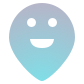
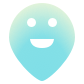
gradient stuff

Changed region(s): [[0.0952, 0.0238, 0.9048, 0.6429]]

diff --git a/screens/StatsScreen.js b/screens/StatsScreen.js
@@ -1,18 +1,17 @@
 import React from 'react';
 import { FlatList, View, StyleSheet, Text, AsyncStorage } from 'react-native';
 import { ExpoConfigView } from '@expo/samples';
+import { LinearGradient } from 'expo';
 
 import { HOST } from '../constants/Dark';
 import Styles from '../constants/Styles';
-import {
+import Colors, {
   skyBright, sunBright, seaBright,
   skyLight, sunLight, seaLight,
-  skyPrimary
+  skyPrimary, sunPrimary, seaPrimary,
+  skyDark
 } from '../constants/Colors';
 import ErrorPage from '../components/ErrorPage';
-
-const sunDark = '#FFA023';
-const seaDark = '#45A6AF';
 
 export default class StatsScreen extends React.Component {
   static navigationOptions = {
@@ -52,8 +51,8 @@ export default class StatsScreen extends React.Component {
     if (this.state.error) return (<ErrorPage retryAction={this.retryLoad} />)
 
     const max = this.state.dataSource.reduce((m, e) => e.count > m ? e.count : m, 0)
-    const bgcolors = [skyLight, sunLight, seaLight]
-    const textcolors = [skyBright, sunDark, seaDark]
+    const bgcolors = [seaBright, skyBright]
+    const textcolors = [seaLight, skyLight]
 
     const renderItem = ({item, index}) => {
       return (<View style={styles.item}>
@@ -61,48 +60,53 @@ export default class StatsScreen extends React.Component {
         <View
           style={{...styles.count,
             flex: item.count,
-            backgroundColor: bgcolors[index%3]
+            backgroundColor: bgcolors[index%2]
           }}
         ><Text
           style={{
             ...styles.countText,
-            color: textcolors[index%3]
+            color: textcolors[index%2]
           }}
           >{item.count}</Text></View>
         <View style={{flex: max - item.count}}></View>
       </View>)
     }
 
-    return (<FlatList
-      style={styles.container}
+    return (
+      <LinearGradient
+        colors={Colors.gradient}
+        style={styles.container}
+      >
+      <FlatList
       data={this.state.dataSource}
       renderItem={renderItem}
       keyExtractor={(item, index) => '' + index}
       ListHeaderComponent={(<Text style={styles.header}>Usage Frequency</Text>)}
-     />)
+     />
+   </LinearGradient>)
   }
 }
 
 const styles = StyleSheet.create({
   container: {
     ...Styles.container,
-    paddingRight: 10,
-    paddingLeft: 10,
     flexWrap: 'nowrap',
   },
   header: {
     textAlign: 'center',
-    color: skyPrimary,
     marginBottom: 10,
     marginTop: 10,
     fontWeight: 'bold',
-    fontSize: 15
+    fontSize: 15,
+    color: skyDark
   },
   item: {
     flex: 1,
     flexDirection: 'row',
     justifyContent: 'flex-start',
     alignItems: 'center',
+    paddingRight: 8,
+    paddingLeft: 8,
   },
   emoji: {
     width: 20,
@@ -113,7 +117,7 @@ const styles = StyleSheet.create({
     height: 30,
     padding: 4,
     borderTopRightRadius: 15,
-    borderBottomRightRadius: 15,
+    borderBottomRightRadius: 15
   },
   countText: {
     width: '100%',

diff --git a/screens/CheckinScreen.js b/screens/CheckinScreen.js
@@ -1,24 +1,24 @@
 import React from 'react';
 import {
-  Alert,
   Button,
   Image,
   Platform,
   ScrollView,
   StyleSheet,
   Text,
-  TextInput,
   TouchableOpacity,
   View,
   AsyncStorage,
 } from 'react-native';
-import { WebBrowser } from 'expo';
+import { LinearGradient } from 'expo';
 
 import { MonoText } from '../components/StyledText';
 import EmojiInput from 'react-native-emoji-input';
 
 import { HOST } from '../constants/Dark';
-import Colors, { seaBright, seaLight, seaPrimary, skyLight, skyPrimary, skyBright } from '../constants/Colors';
+import Colors, { seaBright, seaLight, seaPrimary,
+  skyLight, skyPrimary, skyBright,
+  sunBright, sunPrimary } from '../constants/Colors';
 import Styles from '../constants/Styles';
 import ErrorPage from '../components/ErrorPage';
 
@@ -70,7 +70,10 @@ export default class HomeScreen extends React.Component {
         message="Oops! We are having trouble receiving your moods." />)
 
     return (
-      <View style={styles.container}>
+      <LinearGradient
+        colors={Colors.gradient}
+        style={styles.container}
+      >
         <View style={styles.top}>
           <Button
             color={Colors.tintColor}
@@ -104,7 +107,7 @@ export default class HomeScreen extends React.Component {
           }}
         />
         </View>
-        </View>
+        </LinearGradient>
       );
   }
 }

diff --git a/screens/HistoryScreen.js b/screens/HistoryScreen.js
@@ -1,9 +1,10 @@
 import React from 'react';
 import { FlatList, ScrollView, StyleSheet, Text, AsyncStorage, View } from 'react-native';
-import { ExpoLinksView } from '@expo/samples';
+
+import { LinearGradient } from 'expo';
 
 import { HOST } from '../constants/Dark';
-import { seaPrimary, seaBright, skyPrimary } from '../constants/Colors';
+import Colors, { seaPrimary, seaBright, skyPrimary, sunPrimary, sunBright } from '../constants/Colors';
 import Styles from '../constants/Styles';
 import ErrorPage from '../components/ErrorPage';
 
@@ -55,31 +56,31 @@ export default class HistoryScreen extends React.Component {
     }
 
     return (
+      <LinearGradient
+        colors={Colors.gradient}
+        style={Styles.container}
+      >
       <FlatList
-          style={styles.container}
           data={this.state.dataSource}
           renderItem={renderItem}
           keyExtractor={(item, index) => '' + index}
          />
-
+      </LinearGradient>
     );
   }
 }
 
 
 const styles = StyleSheet.create({
-  container: {
-    ...Styles.container,
-    padding: 8
-  },
   item: {
-    marginBottom: 16
+    marginBottom: 16,
+    paddingLeft: 8,
+    paddingRight: 8,
   },
   emojis: {
-    fontSize: 24
+    fontSize: 40
   },
   date: {
     fontSize: 12,
-    color: skyPrimary,
   }
 });

diff --git a/App.js b/App.js
@@ -4,7 +4,7 @@ import { AppLoading, Asset, Font, Icon } from 'expo';
 import AppNavigator from './navigation/AppNavigator';
 import uuid from 'react-native-uuid';
 
-import { seaPrimary } from './constants/Colors';
+import { seaPrimary, seaBright, sunPrimary, sunBright } from './constants/Colors';
 
 export default class App extends React.Component {
   state = {
@@ -23,7 +23,8 @@ export default class App extends React.Component {
     } else {
       return (
         <View style={styles.container}>
-          {Platform.OS === 'ios' && <StatusBar barStyle="default" />}
+          {Platform.OS === 'ios' &&
+            <StatusBar backgroundColor='transparent'  />}
           <AppNavigator />
         </View>
       );
@@ -67,5 +68,6 @@ export default class App extends React.Component {
 const styles = StyleSheet.create({
   container: {
     flex: 1,
+
   },
 });

diff --git a/components/ErrorPage.js b/components/ErrorPage.js
@@ -1,5 +1,6 @@
 import React from 'react';
-import {View, StyleSheet, Text, Button, Image } from 'react-native';
+import { StyleSheet, Text, Button, Image } from 'react-native';
+import { LinearGradient } from 'expo';
 
 import Styles from '../constants/Styles.js';
 import Colors from '../constants/Colors';
@@ -8,7 +9,10 @@ export default class ErrorPage extends React.Component {
 
 	render(){
 		return (
-			<View style={styles.container}>
+			<LinearGradient
+				colors={Colors.gradient}
+				style={styles.container}
+			>
 				<Image
           source={require('./img/error.png')}
         />
@@ -16,7 +20,7 @@ export default class ErrorPage extends React.Component {
 				<Button
 					color={Colors.tintColor}
 					onPress={this.props.retryAction} title="Try Again" />
-			</View>
+			</LinearGradient>
 		)
 	}
 }

diff --git a/constants/Colors.js b/constants/Colors.js
@@ -7,18 +7,23 @@ export const seaBright = '#81CFD6' //'#7FDFE7'
 export const skyLight = '#E0CADB'
 export const skyPrimary = '#C6A9BF'
 export const skyBright = '#A16592'
+export const skyDark = '#521F46'
+export const sunDark = '#FFA023';
+export const seaDark = '#45A6AF';
 
-const tintColor = skyBright;
+
+const tintColor = '#A85995';
 
 export default {
   tintColor,
-  tabIconDefault: '#B5B6C9',
-  tabIconSelected: seaBright,
-  tabBar: '#E9E9EF',
+  tabIconDefault: '#FFD162',
+  tabIconSelected: seaDark,
+  tabBar: sunBright,//'#E9E9EF',
   errorBackground: 'red',
   errorText: '#fff',
   warningBackground: '#EAEB5E',
   warningText: '#666804',
   noticeBackground: tintColor,
   noticeText: '#fff',
+  gradient: [skyPrimary, seaPrimary, sunBright]
 };

diff --git a/navigation/AppNavigator.js b/navigation/AppNavigator.js
@@ -4,7 +4,5 @@ import { createSwitchNavigator } from 'react-navigation';
 import MainTabNavigator from './MainTabNavigator';
 
 export default createSwitchNavigator({
-  // You could add another route here for authentication.
-  // Read more at https://reactnavigation.org/docs/en/auth-flow.html
   Main: MainTabNavigator
 });

diff --git a/constants/Styles.js b/constants/Styles.js
@@ -3,6 +3,6 @@ export default {
     flex: 1,
     flexDirection: 'column',
     flexWrap: 'wrap',
-    marginTop: 20,
+    paddingTop: 20,
   }
 }
